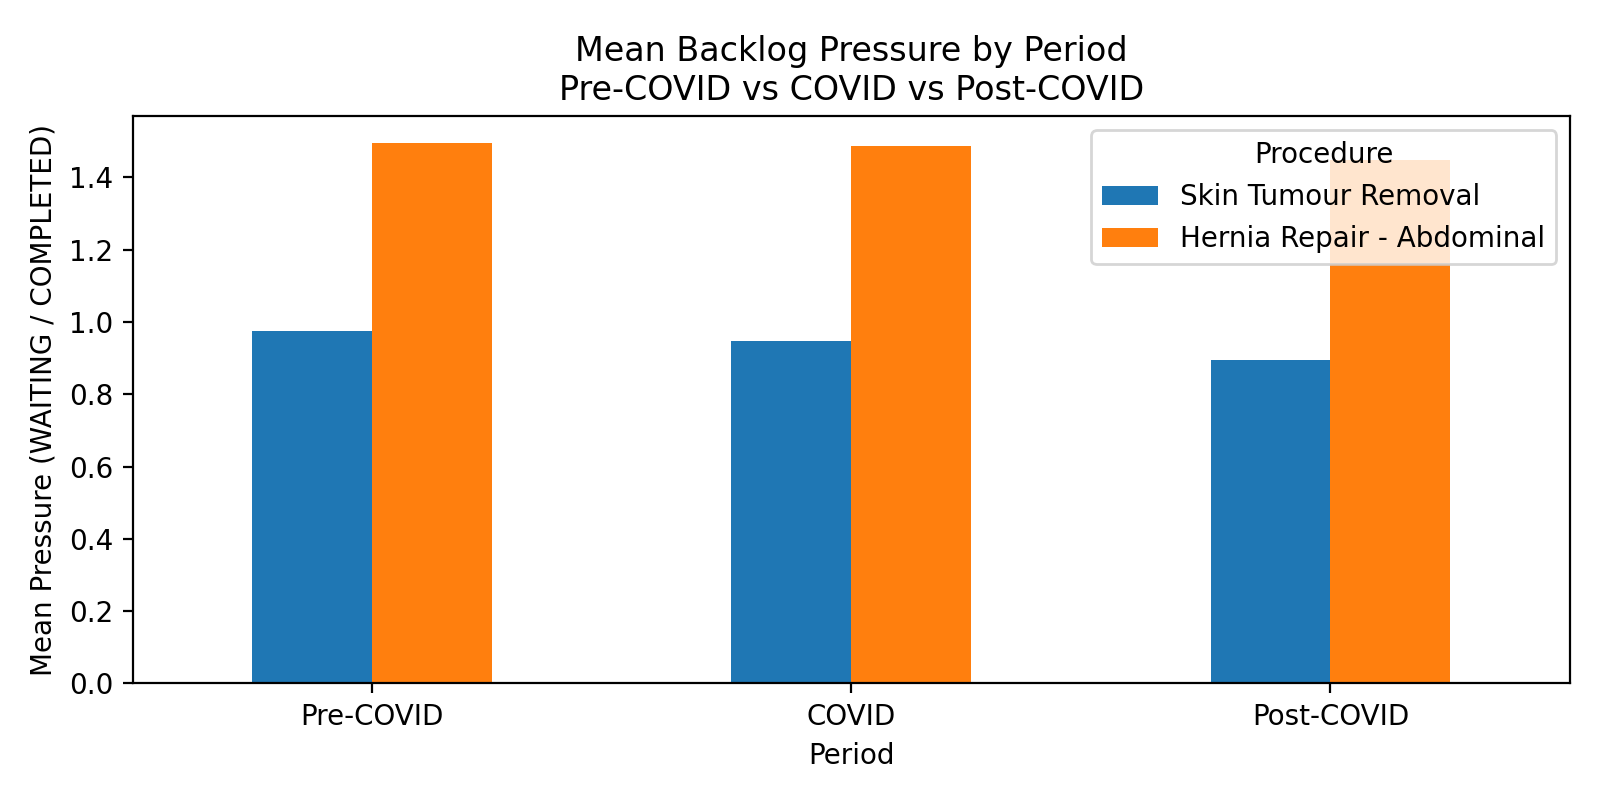
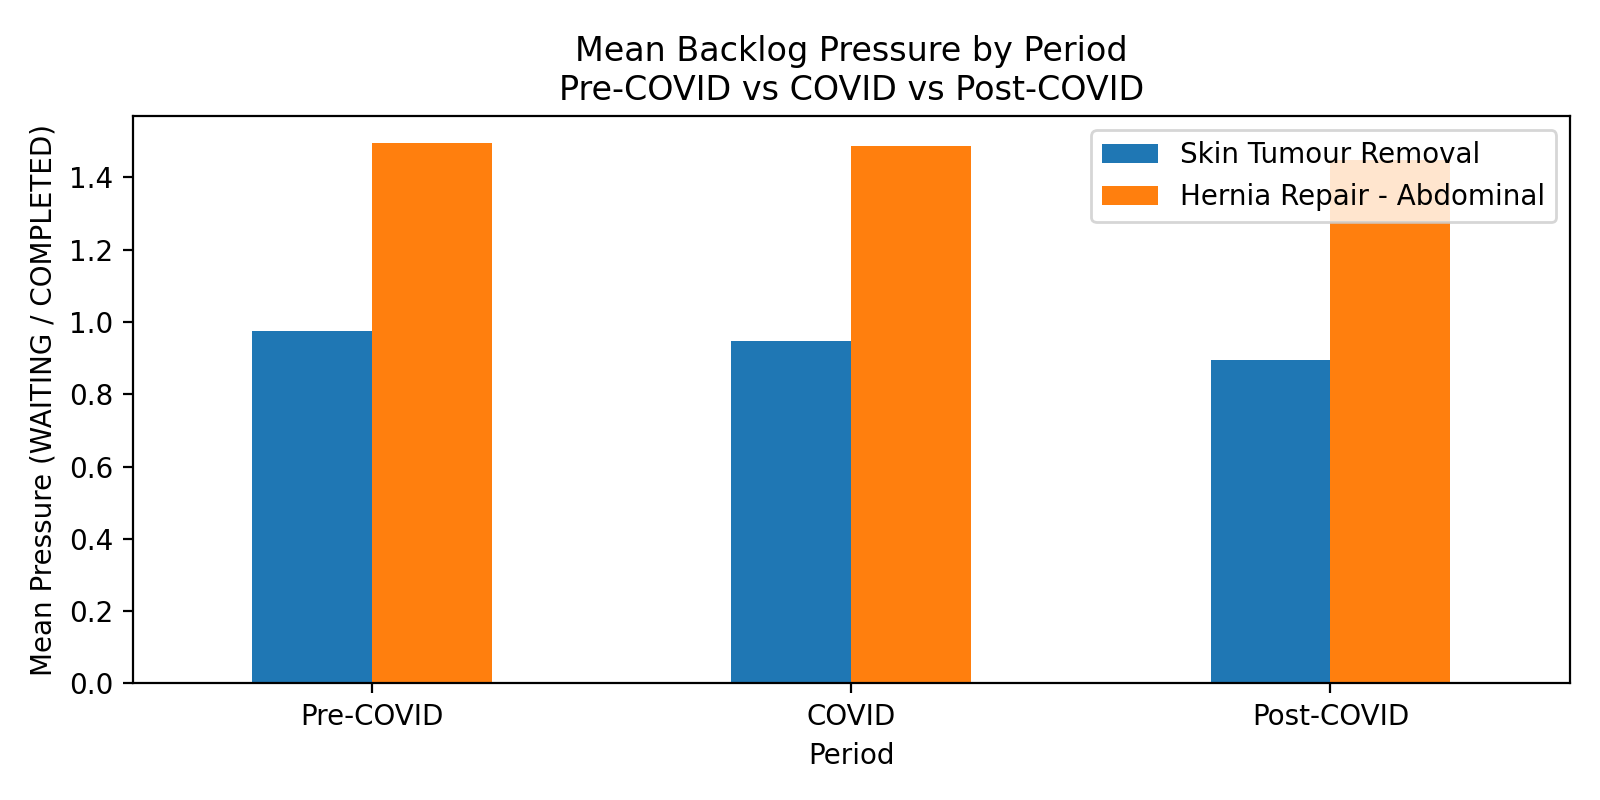
Add backlog pressure and wait time percentile analysis (COVID impact)

Changed region(s): [[0.6875, 0.1562, 0.9688, 0.3438]]

diff --git a/main.py b/main.py
@@ -28,11 +28,19 @@ def build_procedure_series(df: pd.DataFrame, procedure_name: str) -> pd.DataFram
     # drop rows where both are missing (keeps data honest)
     df_proc = df_proc.dropna(subset=["WAITING", "COMPLETED"], how="all")
 
+    df_proc["PERCENTILE_COMP_50TH"] = pd.to_numeric(df_proc["PERCENTILE_COMP_50TH"], errors="coerce")
+    df_proc["PERCENTILE_COMP_90TH"] = pd.to_numeric(df_proc["PERCENTILE_COMP_90TH"], errors="coerce")
+
     # aggregate
     agg = (
-        df_proc.groupby(["FISCAL_YEAR", "QUARTER"], as_index=False)[["WAITING", "COMPLETED"]]
-        .sum()
+    df_proc.groupby(["FISCAL_YEAR", "QUARTER"], as_index=False)
+    .agg(
+        WAITING=("WAITING", "sum"),
+        COMPLETED=("COMPLETED", "sum"),
+        P50_WEEKS=("PERCENTILE_COMP_50TH", "mean"),
+        P90_WEEKS=("PERCENTILE_COMP_90TH", "mean"),
     )
+)
 
     # time label
     agg["time"] = agg["FISCAL_YEAR"].astype(str) + "-" + agg["QUARTER"]
@@ -48,7 +56,6 @@ def build_procedure_series(df: pd.DataFrame, procedure_name: str) -> pd.DataFram
     agg["period"] = agg["FISCAL_YEAR"].apply(assign_period_from_fy)
 
     return agg
-
 def main():
     print("main.py is running ✅")
     print("BC Surgical Wait Times — Project Start")
@@ -63,18 +70,40 @@ def main():
     hernia = build_procedure_series(df, "Hernia Repair - Abdominal")
     print("✅ built hernia")
 
-    # ---- Summary by period (mean pressure) ----
+    print("\nSkin P50/P90 head:\n", skin[["time","P50_WEEKS","P90_WEEKS"]].head())
+    print("\nHernia P50/P90 head:\n", hernia[["time","P50_WEEKS","P90_WEEKS"]].head())
+
+    # ensure figures folder exists
+    os.makedirs("reports/figures", exist_ok=True)
+
+    # =========================================================
+    # SUMMARY 1: Mean pressure by period
+    # =========================================================
     skin_period = skin.groupby("period")["pressure"].mean()
     hernia_period = hernia.groupby("period")["pressure"].mean()
 
     print("\nSkin pressure by period (mean):")
     print(skin_period.round(3))
-
     print("\nHernia pressure by period (mean):")
     print(hernia_period.round(3))
 
-    # ensure figures folder exists
-    os.makedirs("reports/figures", exist_ok=True)
+    # =========================================================
+    # SUMMARY 2: Mean wait times by period (P50 & P90)
+    # =========================================================
+    skin_wait_summary = skin.groupby("period")[["P50_WEEKS", "P90_WEEKS"]].mean().round(2)
+    hernia_wait_summary = hernia.groupby("period")[["P50_WEEKS", "P90_WEEKS"]].mean().round(2)
+
+    periods_order = ["Pre-COVID", "COVID", "Post-COVID"]
+
+    combined_wait = pd.DataFrame({
+        "Skin_P50_weeks": skin_wait_summary["P50_WEEKS"],
+        "Skin_P90_weeks": skin_wait_summary["P90_WEEKS"],
+        "Hernia_P50_weeks": hernia_wait_summary["P50_WEEKS"],
+        "Hernia_P90_weeks": hernia_wait_summary["P90_WEEKS"],
+    }).reindex(periods_order)
+
+    print("\n✅ Combined wait time summary (weeks):")
+    print(combined_wait)
 
     # =========================================================
     # CHART 1: Pressure trend comparison (aligned by time)
@@ -88,54 +117,90 @@ def main():
     )
 
     plt.figure(figsize=(10, 4))
-    plt.title(
-        "Backlog Pressure Trend (WAITING / COMPLETED)\nSkin Tumour vs Hernia – BC",
-        fontsize=12
-    )
+    plt.title("Backlog Pressure Trend (WAITING / COMPLETED)\nSkin Tumour vs Hernia – BC", fontsize=12)
     plt.ylabel("Pressure (ratio)")
     plt.xlabel("Fiscal Quarter")
-
     plt.plot(merged["pressure_skin"], label="Skin Tumour Removal", linewidth=2)
     plt.plot(merged["pressure_hernia"], label="Hernia Repair - Abdominal", linewidth=2, linestyle="--")
-
-    plt.xticks(
-        ticks=range(0, len(merged)),
-        labels=merged["time"],
-        rotation=90,
-        fontsize=6
-    )
+    plt.xticks(ticks=range(0, len(merged)), labels=merged["time"], rotation=90, fontsize=6)
     plt.legend()
     plt.tight_layout()
 
     out_path_trend = "reports/figures/pressure_trend_comparison.png"
     plt.savefig(out_path_trend, dpi=200)
     plt.show()
-
     print(f"\n✅ Saved trend chart to: {out_path_trend}")
 
     # =========================================================
     # CHART 2: Mean pressure by period (bar chart)
     # =========================================================
-    periods_order = ["Pre-COVID", "COVID", "Post-COVID"]
-
-    summary = pd.DataFrame({
+    summary_pressure = pd.DataFrame({
         "Skin Tumour Removal": skin_period,
         "Hernia Repair - Abdominal": hernia_period
     }).reindex(periods_order)
 
-    ax = summary.plot(kind="bar", figsize=(8, 4))
+    ax = summary_pressure.plot(kind="bar", figsize=(8, 4))
     ax.set_title("Mean Backlog Pressure by Period\nPre-COVID vs COVID vs Post-COVID", fontsize=12)
     ax.set_xlabel("Period")
     ax.set_ylabel("Mean Pressure (WAITING / COMPLETED)")
-    ax.legend(title="Procedure")
     plt.xticks(rotation=0)
     plt.tight_layout()
 
     out_path_bar = "reports/figures/pressure_mean_by_period.png"
     plt.savefig(out_path_bar, dpi=200)
     plt.show()
-
     print(f"✅ Saved period summary chart to: {out_path_bar}")
+
+    # =========================================================
+    # CHART 3: Patient wait times (P50 vs P90) — Skin
+    # =========================================================
+    plt.figure(figsize=(10, 4))
+    plt.title("Patient Wait Time (Weeks) — Skin Tumour Removal\nP50 vs P90", fontsize=12)
+    plt.ylabel("Weeks")
+    plt.xlabel("Fiscal Quarter")
+    plt.plot(skin["P50_WEEKS"], label="P50 (median)", linewidth=2)
+    plt.plot(skin["P90_WEEKS"], label="P90 (90th percentile)", linewidth=2, linestyle="--")
+    plt.xticks(ticks=range(0, len(skin)), labels=skin["time"], rotation=90, fontsize=6)
+    plt.legend()
+    plt.tight_layout()
+
+    out_path_skin_wait = "reports/figures/skin_wait_p50_p90.png"
+    plt.savefig(out_path_skin_wait, dpi=200)
+    plt.show()
+    print(f"✅ Saved wait time chart to: {out_path_skin_wait}")
+
+    # =========================================================
+    # CHART 4: Patient wait times (P50 vs P90) — Hernia
+    # =========================================================
+    plt.figure(figsize=(10, 4))
+    plt.title("Patient Wait Time (Weeks) — Hernia Repair (Abdominal)\nP50 vs P90", fontsize=12)
+    plt.ylabel("Weeks")
+    plt.xlabel("Fiscal Quarter")
+    plt.plot(hernia["P50_WEEKS"], label="P50 (median)", linewidth=2)
+    plt.plot(hernia["P90_WEEKS"], label="P90 (90th percentile)", linewidth=2, linestyle="--")
+    plt.xticks(ticks=range(0, len(hernia)), labels=hernia["time"], rotation=90, fontsize=6)
+    plt.legend()
+    plt.tight_layout()
+
+    out_path_hernia_wait = "reports/figures/hernia_wait_p50_p90.png"
+    plt.savefig(out_path_hernia_wait, dpi=200)
+    plt.show()
+    print(f"✅ Saved wait time chart to: {out_path_hernia_wait}")
+
+    # =========================================================
+    # CHART 5: Mean wait time by period (bar chart)
+    # =========================================================
+    ax = combined_wait.plot(kind="bar", figsize=(10, 4))
+    ax.set_title("Mean Wait Time by Period (Weeks)\nP50 & P90 — Skin vs Hernia", fontsize=12)
+    ax.set_xlabel("Period")
+    ax.set_ylabel("Weeks")
+    plt.xticks(rotation=0)
+    plt.tight_layout()
+
+    out_path_wait_bar = "reports/figures/wait_time_mean_by_period.png"
+    plt.savefig(out_path_wait_bar, dpi=200)
+    plt.show()
+    print(f"✅ Saved wait time period chart to: {out_path_wait_bar}")
 
 if __name__ == "__main__":
     main()

diff --git a/README.md b/README.md
@@ -58,7 +58,8 @@ This dataset is released under the **Open Government Licence – British Columbi
 Using BC surgical wait time data (2009–2025), this analysis compares **system demand vs capacity** over time using backlog pressure.
 
 **Key insight:**  
-Across the full period, **hernia repair exhibits persistently higher backlog pressure**, suggesting stronger and more sustained capacity constraints than skin tumour removal.
+Across the full study period, hernia repair exhibits persistently higher backlog pressure,
+indicating sustained capacity constraints rather than temporary disruption.
 
 ---
 
